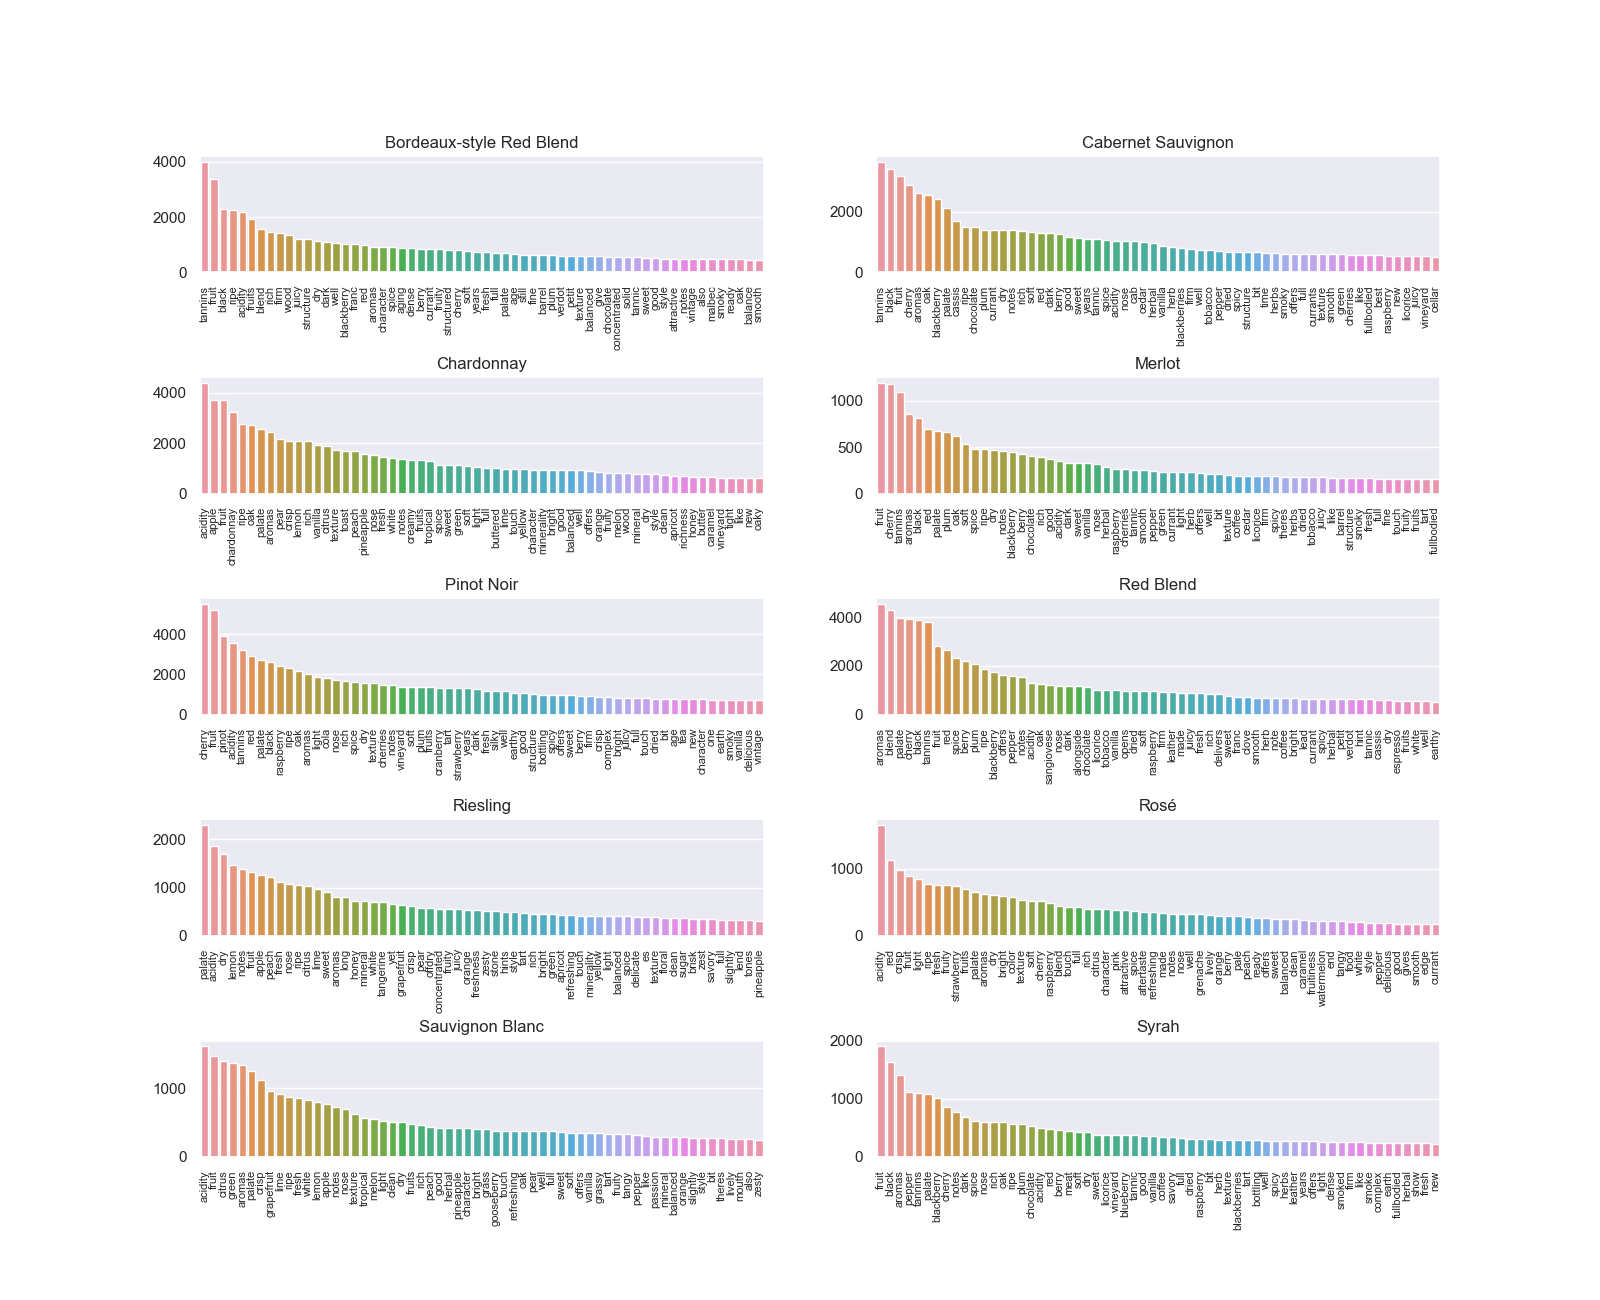
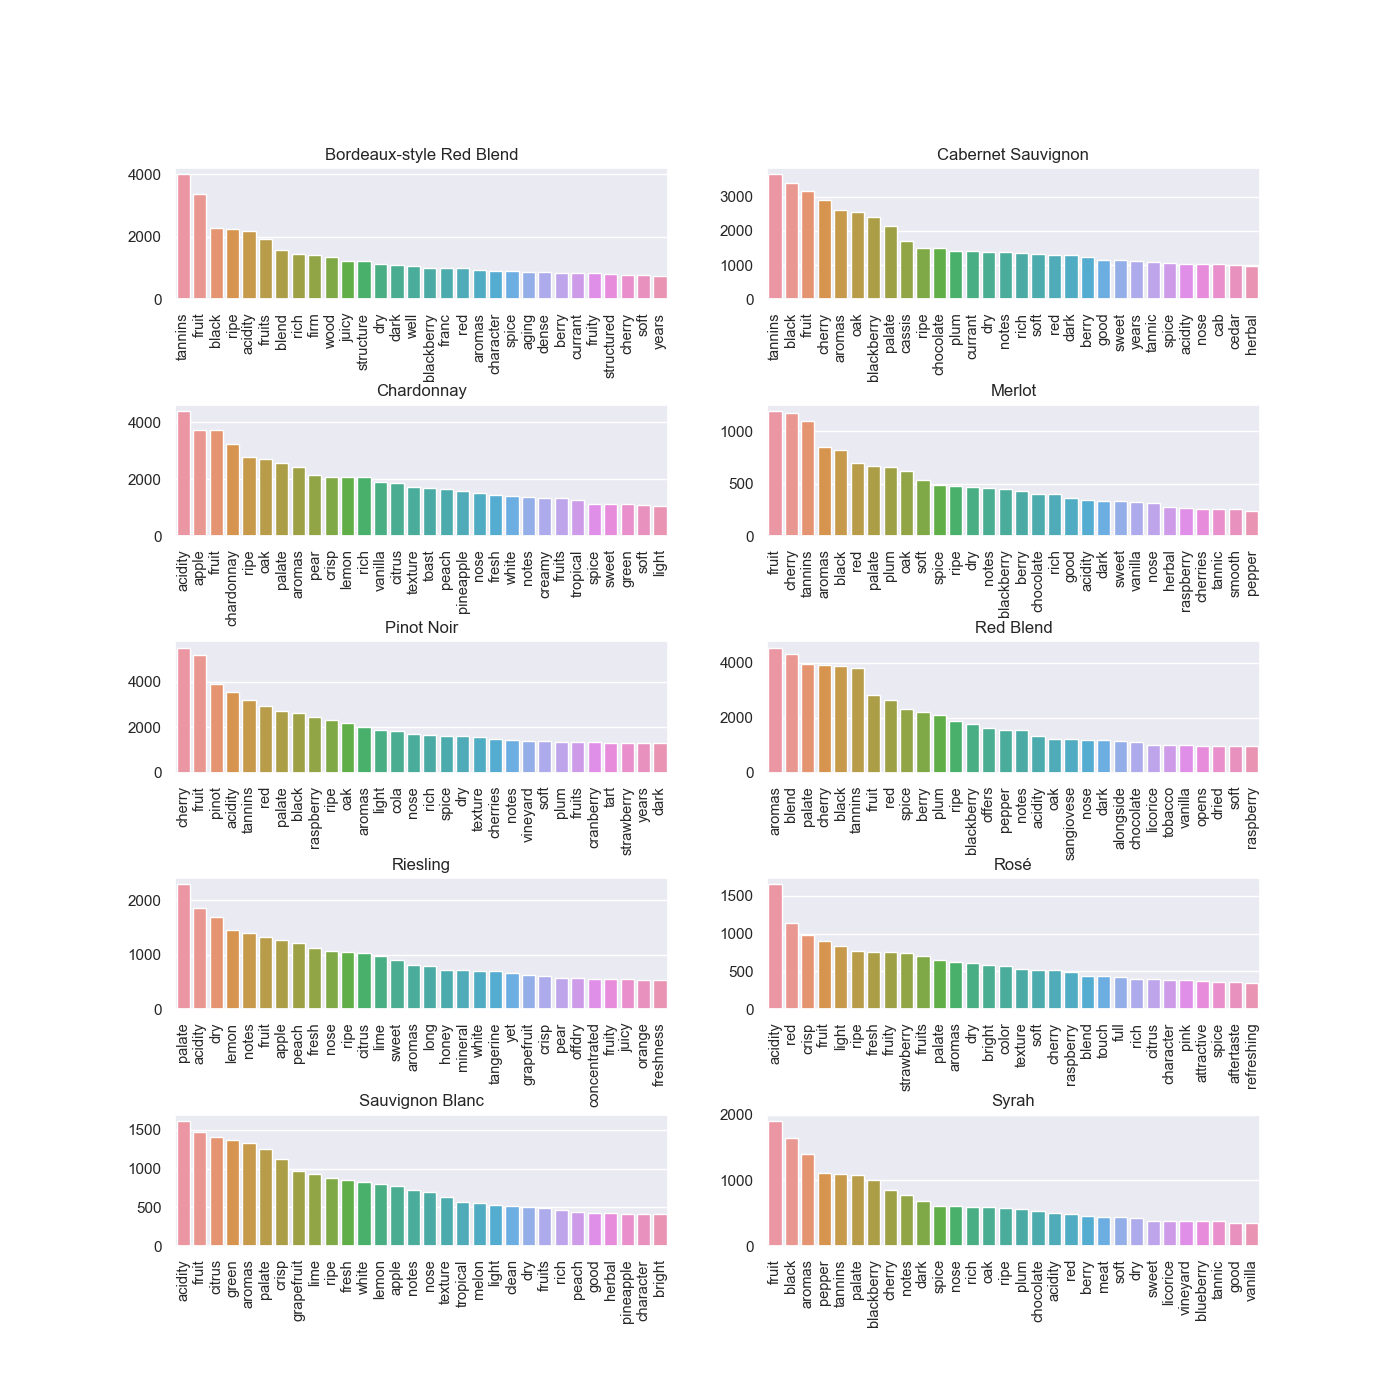
Updated number of words used in plots

diff --git a/variety_by_reviews/data_exploration.py b/variety_by_reviews/data_exploration.py
@@ -35,10 +35,10 @@ def get_words(data):
             'Pinot Noir':words[4], 'Red Blend':words[5], 'Riesling':words[6], 'Rosé':words[7], 'Sauvignon Blanc':words[8], 'Syrah':words[9]})
     return words
 
-def get_freq_dict(data):
+def get_freq_dict(data, N):
     freq_dict = {}
     for column in data.columns:
-        words = data[column].sort_values(ascending=False).head(60)
+        words = data[column].sort_values(ascending=False).head(N)
         freq_dict[column] = list(zip(words.index, words.values))
     return freq_dict
 
@@ -62,8 +62,8 @@ def plot_wordcloud(data):
 def plot_bar(data):
     print("Creating barplots...", end='')
     sns.set()
-    fig, axes = plt.subplots(nrows=5, ncols=2, figsize=(16,13))
-    plt.subplots_adjust(hspace=0.9)
+    fig, axes = plt.subplots(nrows=5, ncols=2, figsize=(14,14))
+    plt.subplots_adjust(hspace=0.8)
     keys = list(data.keys())
     k = 0
     for r in axes:
@@ -71,7 +71,7 @@ def plot_bar(data):
             x = [x[0] for x in data[keys[k]]]
             ax = sns.barplot(x, [x[1] for x in data[keys[k]]], ax=c)
             ax.set_title(keys[k])
-            ax.set_xticklabels(x, rotation=90, fontsize=8)
+            ax.set_xticklabels(x, rotation=90, fontsize=10.5)
             k += 1
     # plt.show()
     plt.savefig('output/barplots_by_variety.png')
@@ -82,9 +82,10 @@ def explore_data(data):
     corpus_count = get_count_table(corpus)
     # thirty = get_top_thirty_words(corpus_count.transpose())
     # words = get_words(thirty)
-    freq_list = get_freq_dict(corpus_count.transpose())
-    plot_wordcloud(freq_list)
-    plot_bar(freq_list)
+    freq_list_wc = get_freq_dict(corpus_count.transpose(), 70)
+    plot_wordcloud(freq_list_wc)
+    freq_list_bar = get_freq_dict(corpus_count.transpose(), 30)
+    plot_bar(freq_list_bar)
 
 
 
